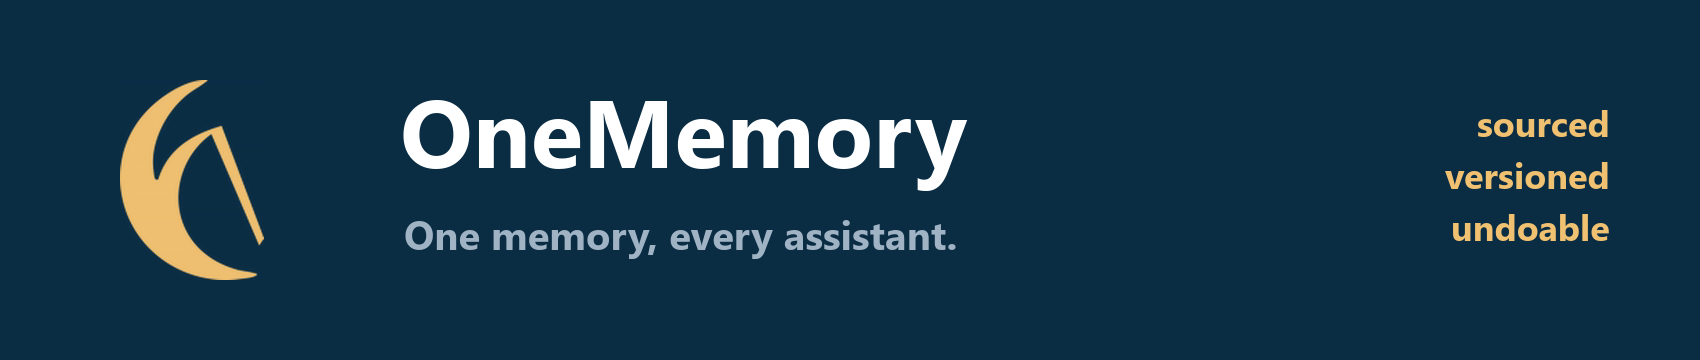
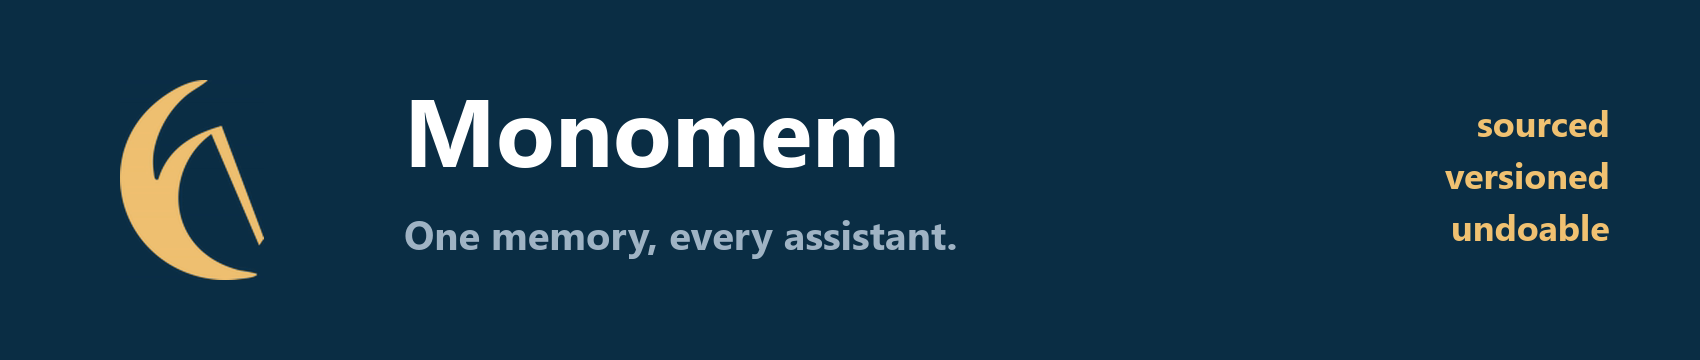
fix: the brand images still said OneMemory
The banner at the top of the README and the npm page, and the social
preview card, were renamed to monomem-* during the rename but never
redrawn: both still carried the word "OneMemory" in 96px type. This is
the same failure as the demo GIF, which was renamed and not regenerated
in #21 and only fixed for 1.0.1 -- a file rename changes nothing a
reader can see.

Only the wordmark is repainted. The logo mark, both subtitles, the
tagline, the "Calas Automations Inc." line and the colours are byte-for-
byte what they were; they did not change with the name.

scripts/make-brand-wordmark.py now does it, so the next name change has
something to run instead of a rename. The font was recovered from the
old artwork rather than guessed: Segoe UI Bold pixel-matches the
replaced wordmark with 16% edge-only mismatch, against 34% for Arial
Bold and 96% for Calibri Bold, and each size is the one whose rendered
ink box matches the height of the wordmark it replaces.

No version bump: the README references these images by absolute
raw.githubusercontent URL, so the npm page picks up main directly and
the published tarball is unaffected.

Changed region(s): [[0.2182, 0.275, 0.5924, 0.55]]

diff --git a/scripts/make-brand-wordmark.py b/scripts/make-brand-wordmark.py
@@ -1,0 +1,76 @@
+#!/usr/bin/env python
+"""Redraw the product wordmark on the brand images.
+
+Exists because the rename to Monomem shipped twice with artwork that had only
+been *renamed*: docs/monomem-demo.gif still showed `npx onememory-mcp setup`
+(fixed in 1.0.1), and both of these PNGs still read "OneMemory" while sitting
+at the top of the README and the npm page. Renaming a file changes nothing a
+reader can see, so the rename now has a script behind it.
+
+Only the wordmark is redrawn. The logo mark, the subtitles, the tagline and
+the colours are left exactly as they were: they did not change with the name,
+and repainting them would risk drifting artwork nobody asked to change.
+
+The font and sizes below were recovered from the originals, not chosen: Segoe
+UI Bold was pixel-matched against the old wordmark (16% edge-only mismatch,
+versus 34% for Arial Bold and 96% for Calibri Bold), and each size is the one
+whose rendered ink box is the same height as the wordmark it replaces.
+
+Run with a Python that has Pillow:
+    ~/tools/motion-venv/Scripts/python.exe scripts/make-brand-wordmark.py
+"""
+
+from pathlib import Path
+
+from PIL import Image, ImageDraw, ImageFont
+
+NAME = "Monomem"
+FONT = "C:/Windows/Fonts/segoeuib.ttf"  # Segoe UI Bold
+NAVY = (10, 45, 68)  # the background these images are painted on
+WHITE = (255, 255, 255)
+
+# For each image: the font size, where the wordmark's ink must start (its
+# top-left, matching where the old one started), and the rectangle to clear
+# first. The clear box is deliberately wider than the old wordmark -- "Monomem"
+# is shorter than "OneMemory", so the tail of the old word has to be covered --
+# and deliberately short of the subtitle and logo, which must survive.
+TARGETS = [
+    {
+        "path": "docs/brand/monomem-banner.png",
+        "size": 96,
+        "ink_xy": (404, 100),
+        "clear": (390, 88, 1000, 200),
+    },
+    {
+        "path": "docs/brand/social-preview.png",
+        "size": 110,
+        "ink_xy": (294, 230),
+        "clear": (280, 215, 980, 348),
+    },
+]
+
+
+def redraw(path: Path, size: int, ink_xy: tuple[int, int], clear: tuple[int, int, int, int]) -> None:
+    image = Image.open(path).convert("RGB")
+    draw = ImageDraw.Draw(image)
+    draw.rectangle(clear, fill=NAVY)
+
+    font = ImageFont.truetype(FONT, size)
+    # Pillow's text origin is the glyph box, not the inked pixels, and the gap
+    # between them depends on the string. Measure this string's own offset and
+    # subtract it, so the ink lands exactly where the old wordmark's ink did.
+    left, top, _, _ = draw.textbbox((0, 0), NAME, font=font)
+    draw.text((ink_xy[0] - left, ink_xy[1] - top), NAME, fill=WHITE, font=font)
+
+    image.save(path)
+    print(f"{path}: wordmark redrawn as {NAME!r} at {size}px")
+
+
+def main() -> None:
+    root = Path(__file__).resolve().parent.parent
+    for target in TARGETS:
+        redraw(root / target["path"], target["size"], target["ink_xy"], target["clear"])
+
+
+if __name__ == "__main__":
+    main()
